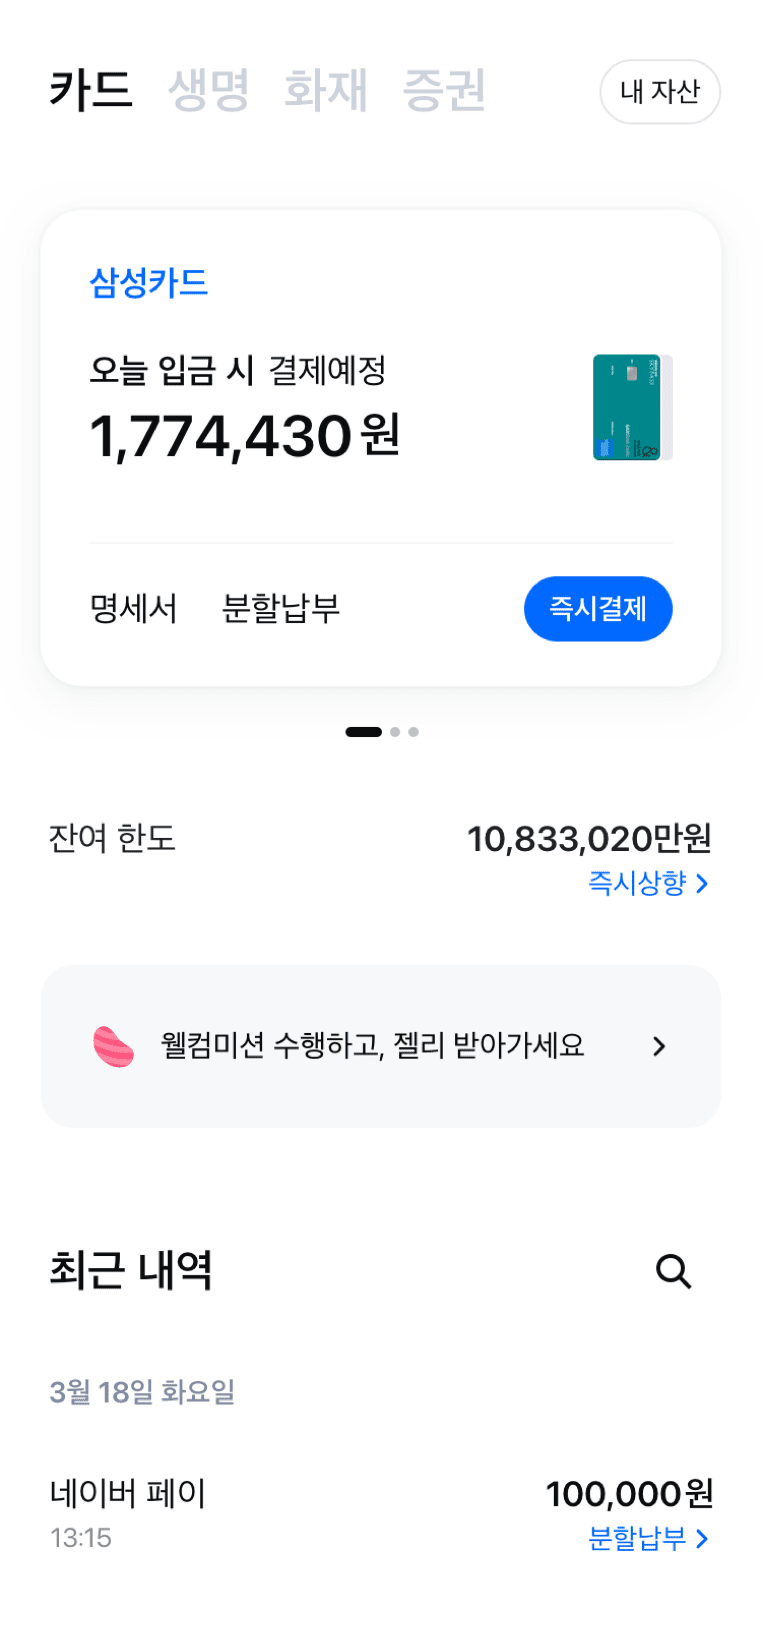
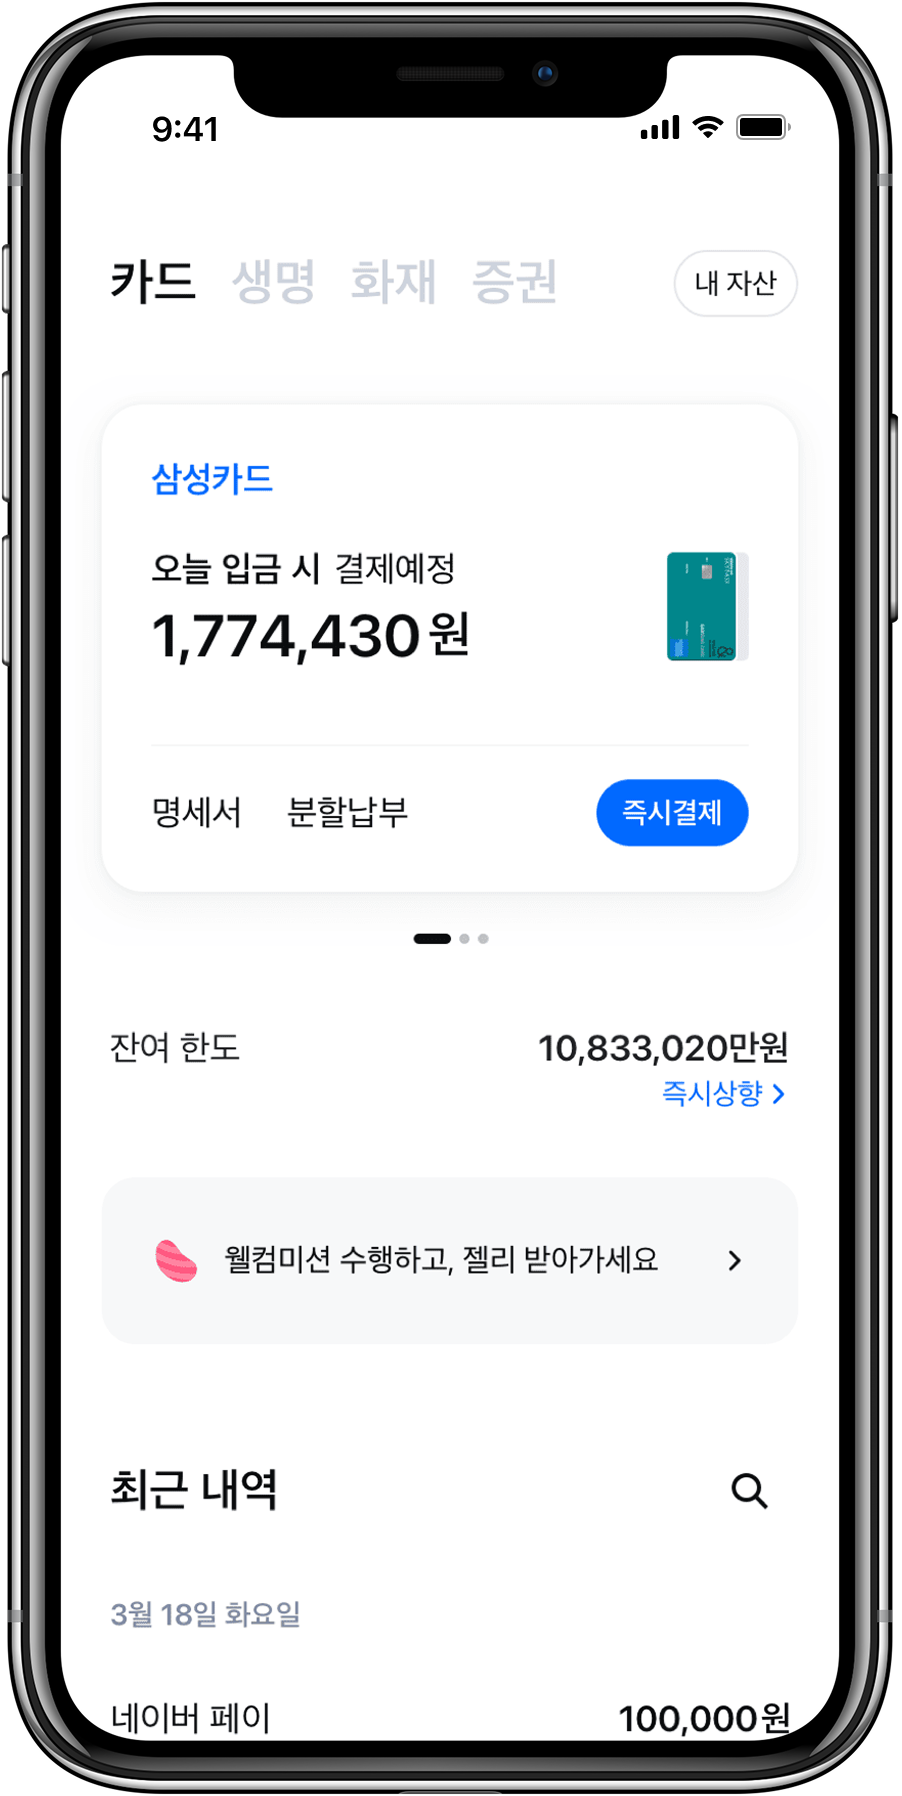
[FEAT] project detail: img

diff --git a/assets/data/projects.js b/assets/data/projects.js
@@ -27,7 +27,7 @@ export default [
             // mb1: '',
         },
         content: {
-            about: '',
+            about: 'A website for insect research institute, Damgon Research.',
         },
     },
     {
@@ -56,28 +56,28 @@ export default [
             pc2: require('@/assets/img/projects/myportfolio_pc2.png'),
             pc3: require('@/assets/img/projects/myportfolio_pc3.png'),
             mb1: require('@/assets/img/projects/myportfolio_mb1.png'),
-            // mb2: require('@/assets/img/projects/project09_mb02.png'),
-            // mb3: require('@/assets/img/projects/project09_mb03.png'),
+            mb2: require('@/assets/img/projects/myportfolio_mb2.png'),
+            mb3: require('@/assets/img/projects/myportfolio_mb3.png'),
         },
         content: {
             // about: 'vue와 nuxt로 구축한 2025년 버전 포트폴리오 사이트입니다.<br> GSAP, AOS 등의 라이브러리를 이용하였고, <br> 메인비주얼은 p5.js를 사용했습니다. <br> GitHub에 전체 코드를 올려두었으니 확인해 보세요!',
             about: 'This is a 2025 version portfolio site built with Vue and Nuxt.<br> It utilizes libraries like GSAP and AOS,<br>and the main visuals are built by using p5.js.<br>The full code is available on GitHub, so check it out!',
-            detail: [
-                // '한글, 영문 지원',
-                // '스크롤 시 페이저 회전 구현',
-                // '스크롤 시 카드 속도에 따라 기울기 구현',
-                // '텍스트 쉬프팅 애니메이션 구현',
-                // '텍스트 스크롤에 따라 올라가는 애니메이션 구현',
-                // 'Reusable code with over 20 components',
-                // 'Responsible with every viewport',
-            ]
+            // detail: [
+            //     '한글, 영문 지원',
+            //     '스크롤 시 페이저 회전 구현',
+            //     '스크롤 시 카드 속도에 따라 기울기 구현',
+            //     '텍스트 쉬프팅 애니메이션 구현',
+            //     '텍스트 스크롤에 따라 올라가는 애니메이션 구현',
+            //     'Reusable code with over 20 components',
+            //     'Responsible with every viewport',
+            // ]
         }
     },
     {
         slug: 'monimo',
         title: 'Monimo',
         desc: {
-            duration: { start: '2024-07', end: '2024-10' },
+            duration: { start: '2024.07', end: '2024.10' },
             client: 'Samsung',
             agency: 'Lisn',
             stack: 'vue2 / scss / javascript / storybook',
@@ -91,7 +91,7 @@ export default [
         link: {
             href: 'https://www.monimo.com/w/main/WPFMHP0101M0',
             target: '_blank',
-            text: 'visit site', // loacales: common.visit
+            text: 'visit site',
         },
         images: {
             thumb: require('@/assets/img/projects/monimo_thumb.png'),
@@ -104,12 +104,12 @@ export default [
             // locales: projects.monimo.about
             // about: '삼성생명, 삼성화재, 삼성카드,<br class="mb"> 삼성증권에서 만든 금융 서비스 앱<br> 여러 팀과 협력하여<br class="mb"> 보안 시스템 아래에서 개발<br> 컴포넌트와 1400여개 페이지 관리,<br class="mb"> 카드 메인 페이지 담당',
             about: 'Financial Services app<br>planned by Samsung Life Insurance, Fire Insurance and Samsung Card.<br> Developed under security system in collaboration with multiple teams.<br> Managed components and over 1,400 pages, including the card main page.',
-            detail: [
-                // 'vue2에서 vue3 마이그레이션',
-                // '보안 시스템으로 인터넷 사용 없이 개발',
-                // 'Migration from Vue2 to Vue3',
-                // 'Developed without internet connect under security system'
-            ]
+            // detail: [
+            //     'vue2에서 vue3 마이그레이션',
+            //     '보안 시스템으로 인터넷 사용 없이 개발',
+            //     'Migration from Vue2 to Vue3',
+            //     'Developed without internet connect under security system'
+            // ]
         }
     },
     {
@@ -141,6 +141,7 @@ export default [
             pc3: require('@/assets/img/projects/416_pc3.png'),
             mb1: require('@/assets/img/projects/416_mb1.png'),
             mb2: require('@/assets/img/projects/416_mb2.png'),
+            mb3: require('@/assets/img/projects/416_mb3.png'),
         },
         content: {
             // about: '세월호참사 10주기를 기념하여<br class="mb"> 메세지를 남길 수 있는 공간<br> Scrollmagic, Tweenmax 등의<br class="mb"> 라이브러리를 이용하여 메인비주얼 구현',
@@ -221,13 +222,13 @@ export default [
         content: {
             // about: '무용예술인의 직업전환과 복지증진을 목표로 다양한 지원사업을 운영하고 있는 사이트.<br> 사이트 내에서 다양한 지원을 신청할 수 있고, 소식을 확인할 수 있습니다.<br> 후원기능이 있고, 간단한 영문 페이지가 따로 존재합니다.',
             about: 'The site operates various support programs helping dance artists.<br>You can apply support programs for health improvement or career transition.<br>Checking latest news, donation functioning are also possible.',
-            detail: [
-                // '연혁 쪽 내비게이션과 스크롤 직접 제작, 영문사이트 포함',
-                // '회원 비회원일 시 바뀌는 내비게이션과 개인화면',
-                // '유투브 링크로 비디오 연동기능 제작',
-                'Developed video link to thumbnail service<br> at Community > DCDC Archive > Videos corner.',
-                'Scroll events at Introduction > History',
-            ]
+            // detail: [
+            //     '연혁 쪽 내비게이션과 스크롤 직접 제작, 영문사이트 포함',
+            //     '회원 비회원일 시 바뀌는 내비게이션과 개인화면',
+            //     '유투브 링크로 비디오 연동기능 제작',
+            //     'Developed video link to thumbnail service<br> at Community > DCDC Archive > Videos corner.',
+            //     'Scroll events at Introduction > History',
+            // ]
         },
     },
     {
@@ -264,11 +265,11 @@ export default [
         content: {
             // about: 'KACE 사이트 리뉴얼.<br>지역사회교육에 관한 조사연구 전문가 양성과<br> 다양한 교육공동체 프로그램을<br class="mb"> 신청할 수 있는 서비스를 제공합니다.',
             about: 'KACE site renewal.<br>The site provides training experts in community education research<br>and applying services for community programs.',
-            detail: [
-                // '홈 화면 호버 이벤트가 있는 배너 구현',
-                'Developed banner at home screen with hover events',
-                'Responsible sliders at home scren made with Slick.js'
-            ]
+            // detail: [
+            //     '홈 화면 호버 이벤트가 있는 배너 구현',
+            //     'Developed banner at home screen with hover events',
+            //     'Responsible sliders at home scren made with Slick.js'
+            // ]
         },
     },
     {
@@ -342,11 +343,11 @@ export default [
         content: {
             // about: '옥스팜코리아에서 주최한 걷기 기부<br class="mb"> 소개 및 참가신청 사이트.<br> 스크롤에 따라 SVG 라인이 그려지는<br class="mb"> 애니메이션 구현.<br>미션에 따라 팀의 스탬프가 인증됩니다.',
             about: 'An introduction and registeration site for walking donation event<br> sponsored by Oxfam Korea.<br>Scroll animation with SVG at home scren.<br>Team stamps are awarded based on mission completion.',
-            detail: [
-                // '이미지형 폰트를 반응형으로 사용',
-                // '홈화면 스크롤에 따라 섹션 명칭을 보여주는 네비게이션',
-                'Used image fonts responsively.'
-            ]
+            // detail: [
+            //     '이미지형 폰트를 반응형으로 사용',
+            //     '홈화면 스크롤에 따라 섹션 명칭을 보여주는 네비게이션',
+            //     'Used image fonts responsively.'
+            // ]
         },
     },
     {

diff --git a/pages/projects/_slug.vue b/pages/projects/_slug.vue
@@ -70,12 +70,14 @@
                 </div>
             </section>
 
-            <section class='device-bg' data-aos='fade-up' v-if='project.images.gif'>
+            <section class='img-gif bg' data-aos='fade-up' v-if='project.images.gif'>
                 <div class='inner'>
                     <div class='device_pc'data-aos='fade-up'>
                         <img src='@/assets/img/device-laptop.png' class='device'>
-                        <div class='img-wrap'>
-                            <img :src='project.images.gif' class='img'>
+                        <div class='res-box-wrap'>
+                            <div class='res-box'>
+                                <img :src='project.images.gif' class='img' />
+                            </div>
                         </div>
                     </div>
                 </div>
@@ -89,19 +91,16 @@
                 </div>
             </section>
 
-            <section class='device-bg' data-aos='fade-up' v-if='project.images.mb1'>
+            <section class='img-mb bg' data-aos='fade-up' v-if='project.images.mb1'>
                 <div class='inner'>
                     <ul class='device_mb'>
                         <li data-aos='fade-up'>
-                            <img src='@/assets/img/device-iphone15.png' class='device'>
                             <img :src='project.images.mb1' class='img'>
                         </li>
                         <li data-aos='fade-up'>
-                            <img src='@/assets/img/device-iphone15.png' class='device'>
                             <img :src='project.images.mb2' class='img'>
                         </li>
                         <li data-aos='fade-up'>
-                            <img src='@/assets/img/device-iphone15.png' class='device'>
                             <img :src='project.images.mb3' class='img'>
                         </li>
                     </ul>

diff --git a/assets/scss/layout/page_detail.scss b/assets/scss/layout/page_detail.scss
@@ -10,10 +10,10 @@
         &:not(.main) {
             padding: 10vh 0;
         }
-        &:last-of-type {
+        &:last-of-type:not(.bg) {
             padding-bottom: 0;
         }
-        &.device-bg {
+        &.bg {
             background-color: $gray1;
         }
     }
@@ -111,24 +111,20 @@
         max-width: $width-m;
         margin: auto;
         position: relative;
+        padding: 3% 0 6%;
 
         .device {
-            position: relative;
+            position: absolute;
+            top: 0;
+            left: 0;
             z-index: 1;
             width: 100%;
+            height: 100%;
         }
-        .img-wrap {
-            position: absolute;
-            top: 5%;
-            left: 10%;
-            border-radius: 5% 5% 0 0;
-            width: 80%;
-            height: auto;
-            object-fit: contain; 
-            overflow: hidden;
-            img {
-                width: 100%;
-            }
+        .res-box-wrap {
+            width: 78%;
+            left: 11%;
+            padding-bottom: 52%;
         }
     }
 
@@ -136,28 +132,6 @@
         display: grid;
         grid-template-columns: 1fr 1fr 1fr;
         gap: 32px;
-        
-        li {
-            position: relative;
-
-            .device {
-                position: relative;
-                z-index: 1;
-            }
-            .img {
-                position: absolute;
-                top: 0;
-                left: 0;
-                border-radius: 4vw;
-                width: 100%;
-                height: auto;
-                object-fit: contain;
-            }
-
-            img {
-                width: 100%;
-            }
-        }
     }
 
     .img-pc {

diff --git a/assets/scss/layout/gnb.scss b/assets/scss/layout/gnb.scss
@@ -49,11 +49,11 @@
                 transition: all 0.4s;
             }
         }
-        .nuxt-link-exact-active:not(a[href='/']) {
-            p span { 
-                font-stretch: 200%;
-            }
-        }
+        // .nuxt-link-exact-active:not(a[href='/']) {
+        //     p span { 
+        //         font-stretch: 200%;
+        //     }
+        // }
     }
 }
 

diff --git a/layouts/Footer.vue b/layouts/Footer.vue
@@ -53,9 +53,9 @@
                     <ChangeLang />
                     <ChangeCursor />
                 </div> -->
-                <div class='desc'>
+                <!-- <div class='desc'>
                     <p>&copy; 2025 witselblue</p>
-                </div>
+                </div> -->
             </div>
         </div>
     </div>
